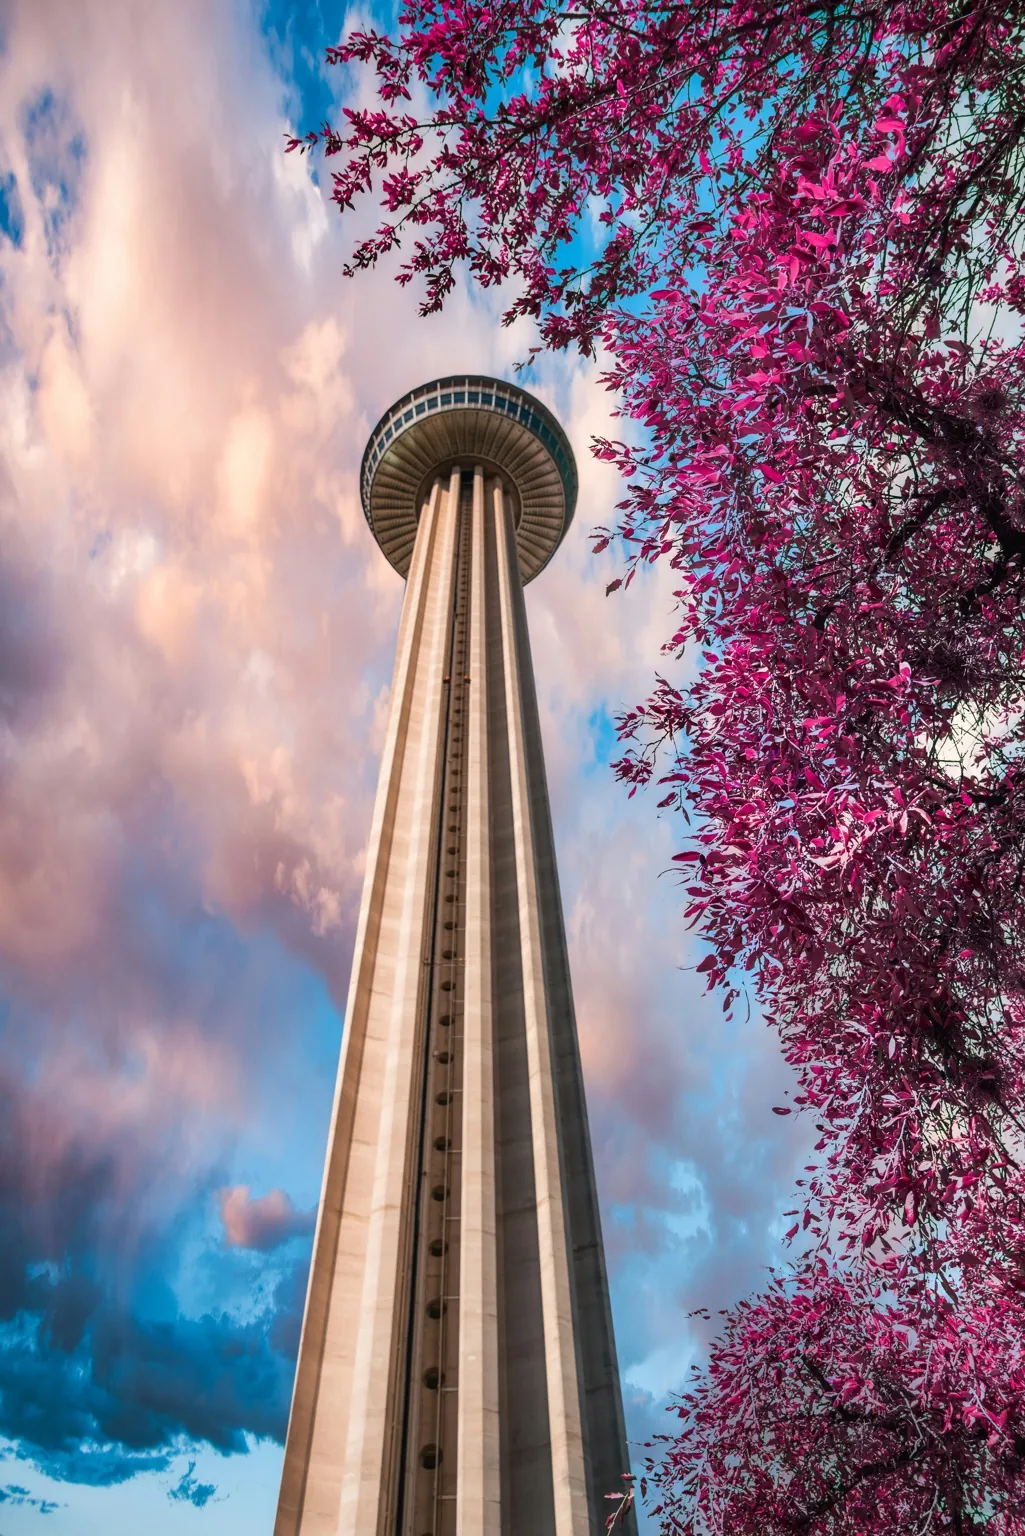
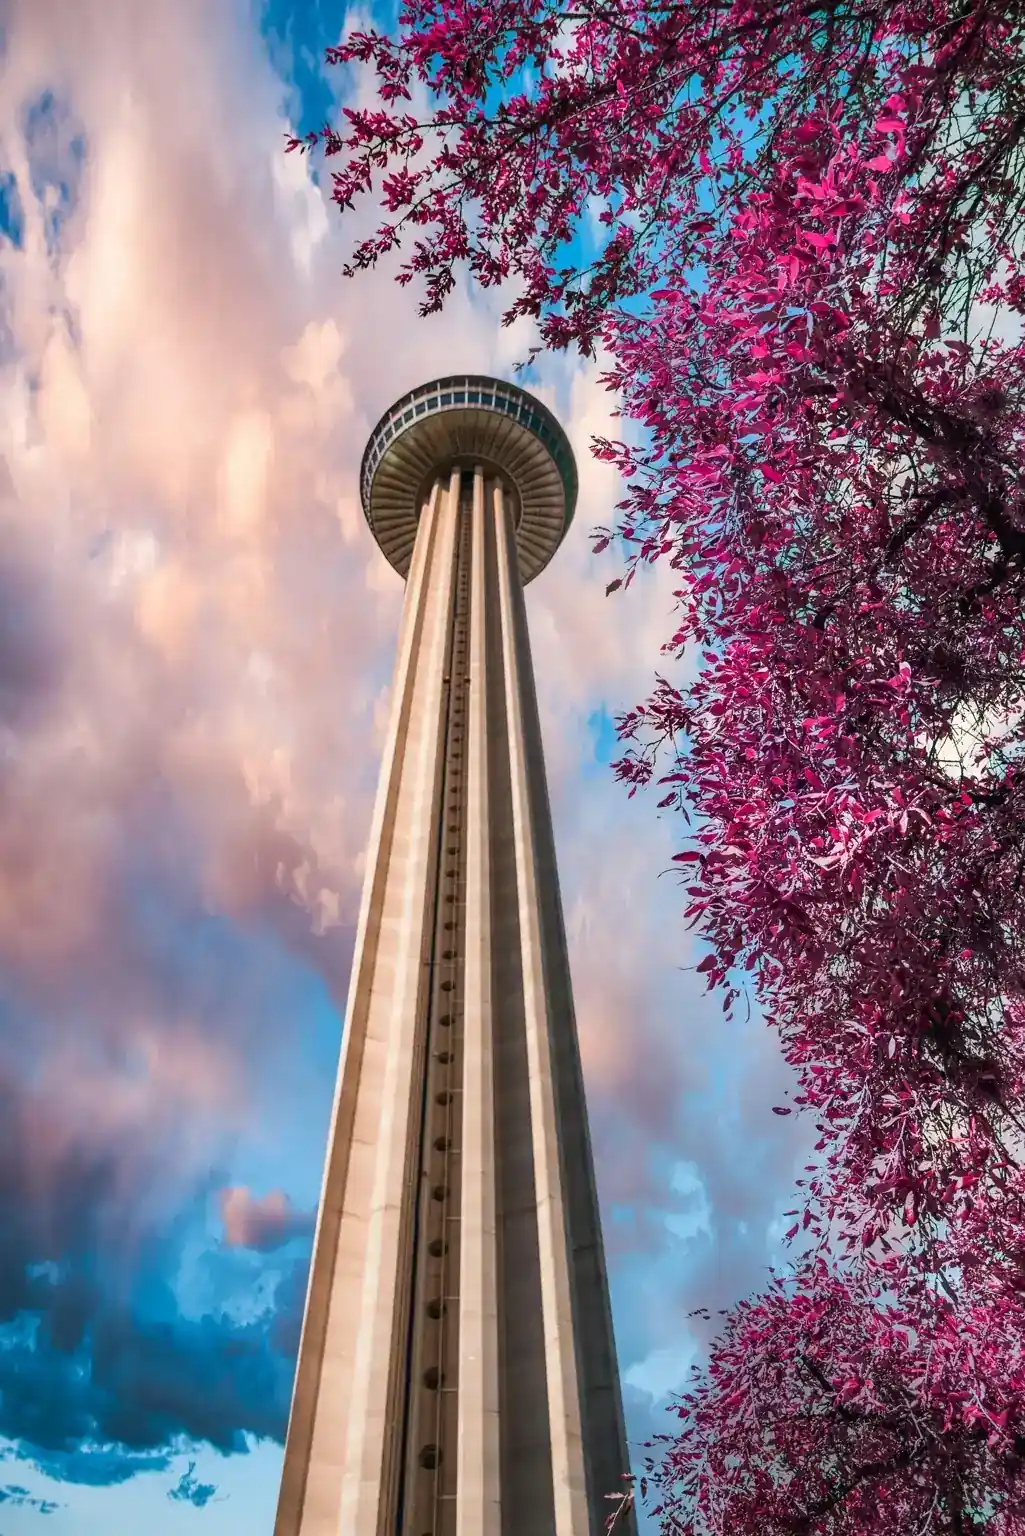
Fix acceptance criteria gaps and optimize hero image for Lighthouse
- About: fix stat label "You Own It" to "You Own Everything"
- FAQ: add bilingual marketing question (8 items total)
- Contact: add SMS consent checkbox with Texas SB 140 language
- Hero: reduce image quality to 60 for faster LCP
- Hero image: recompress from 293KB to 172KB

Lighthouse scores (throttled mobile): Performance 94, Accessibility 96,
Best Practices 100, SEO 100.

diff --git a/components/sections/Contact.tsx b/components/sections/Contact.tsx
@@ -66,6 +66,7 @@ interface FormValues {
   phone: string;
   service: string;
   message: string;
+  smsConsent: boolean;
 }
 
 const inputClasses =
@@ -290,6 +291,25 @@ export default function Contact() {
                       {errors.message.message}
                     </p>
                   )}
+                </div>
+
+                <div className="flex items-start gap-3">
+                  <input
+                    id="smsConsent"
+                    type="checkbox"
+                    className="mt-1 h-4 w-4 shrink-0 rounded border-border text-primary accent-primary focus:ring-2 focus:ring-primary/20"
+                    {...register("smsConsent")}
+                  />
+                  <label
+                    htmlFor="smsConsent"
+                    className="text-xs text-gray leading-relaxed"
+                  >
+                    I agree to receive occasional text messages from Pearl
+                    Street Digital at the phone number provided. Message and
+                    data rates may apply. Reply STOP to opt out at any time.
+                    Consent is not a condition of purchase. See our Privacy
+                    Policy for details.
+                  </label>
                 </div>
 
                 {serverError && (

diff --git a/components/sections/FAQ.tsx b/components/sections/FAQ.tsx
@@ -52,6 +52,11 @@ const faqs = [
       "On-page SEO improvements can start showing traction in four to eight weeks. Competitive keywords in a market like San Antonio may take three to six months to rank well. We set realistic expectations and focus on steady, measurable gains.",
   },
   {
+    question: "Do you offer bilingual marketing?",
+    answer:
+      "Yes. Over 60 percent of San Antonio's population is Hispanic, and we build with that in mind. We offer bilingual website content, ad copy, and social media in both English and Spanish so you can reach the full local market.",
+  },
+  {
     question: "What if I need changes after launch?",
     answer:
       "Every plan includes post-launch support (30, 60, or 90 days depending on your tier). During that window we handle edits, fixes, and adjustments at no extra charge. After that, we offer affordable maintenance or you can manage the site yourself.",

diff --git a/components/sections/About.tsx b/components/sections/About.tsx
@@ -2,7 +2,7 @@ const stats = [
   { value: "2026", label: "Founded" },
   { value: "San Antonio, TX", label: "Based In" },
   { value: "Small Business", label: "Our Focus" },
-  { value: "You Own It", label: "Our Model" },
+  { value: "You Own Everything", label: "Our Model" },
 ];
 
 export default function About() {

diff --git a/components/sections/Hero.tsx b/components/sections/Hero.tsx
@@ -48,6 +48,7 @@ export default function Hero() {
           fill
           className="object-cover object-center"
           priority
+          quality={60}
           sizes="(max-width: 900px) 100vw, 42vw"
         />
         {/* Right fade */}
